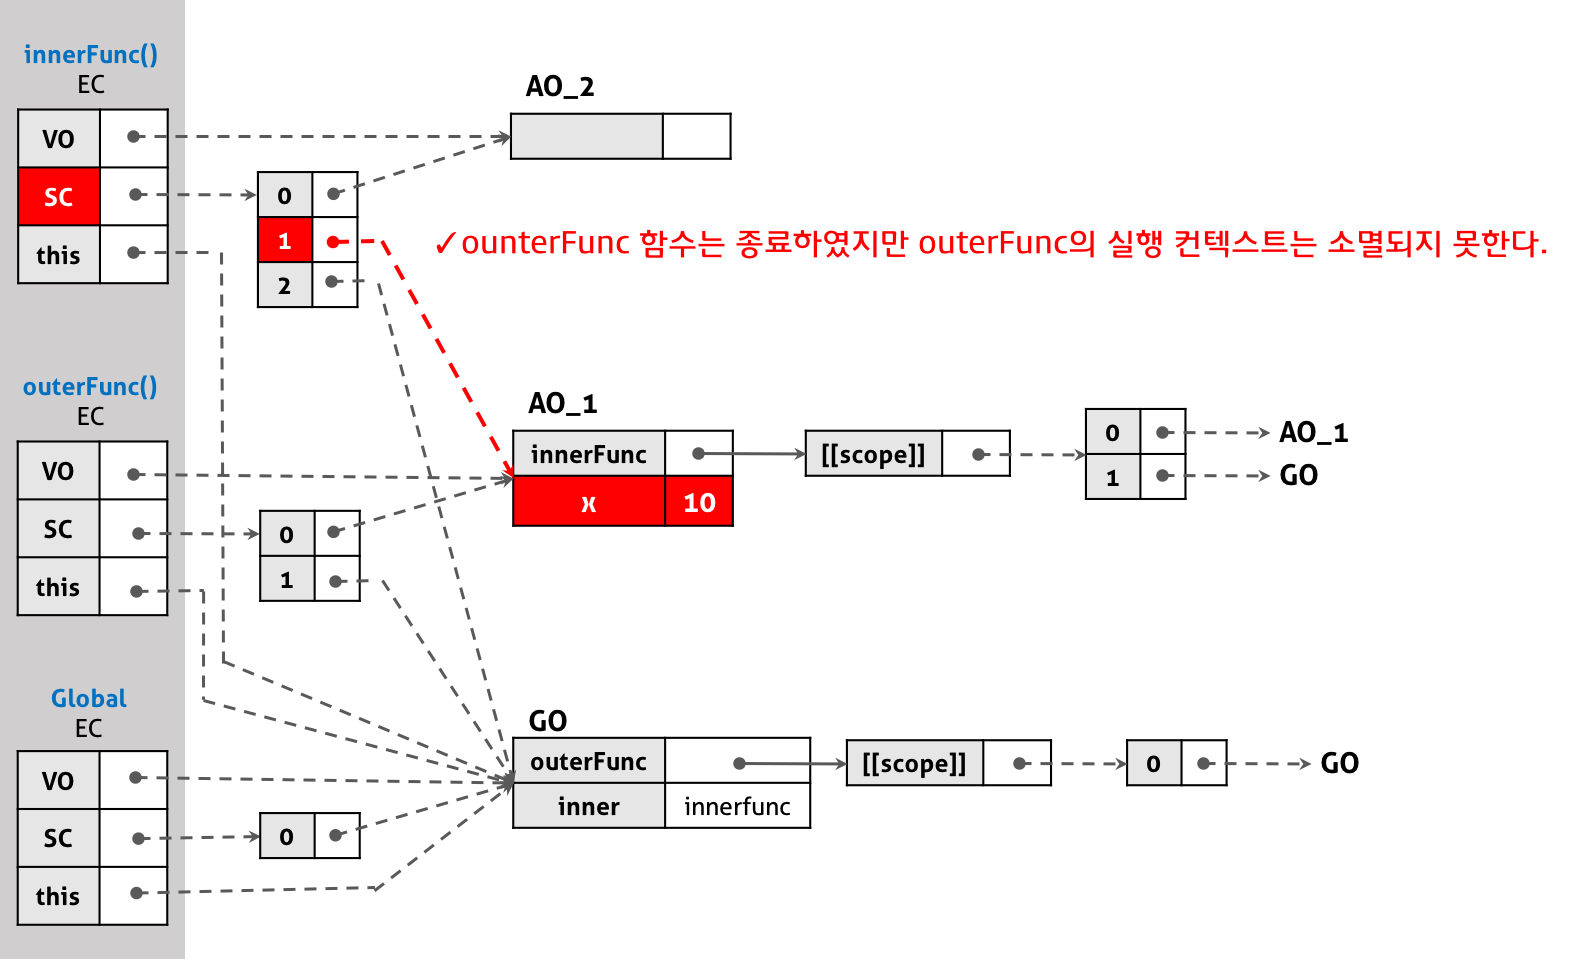
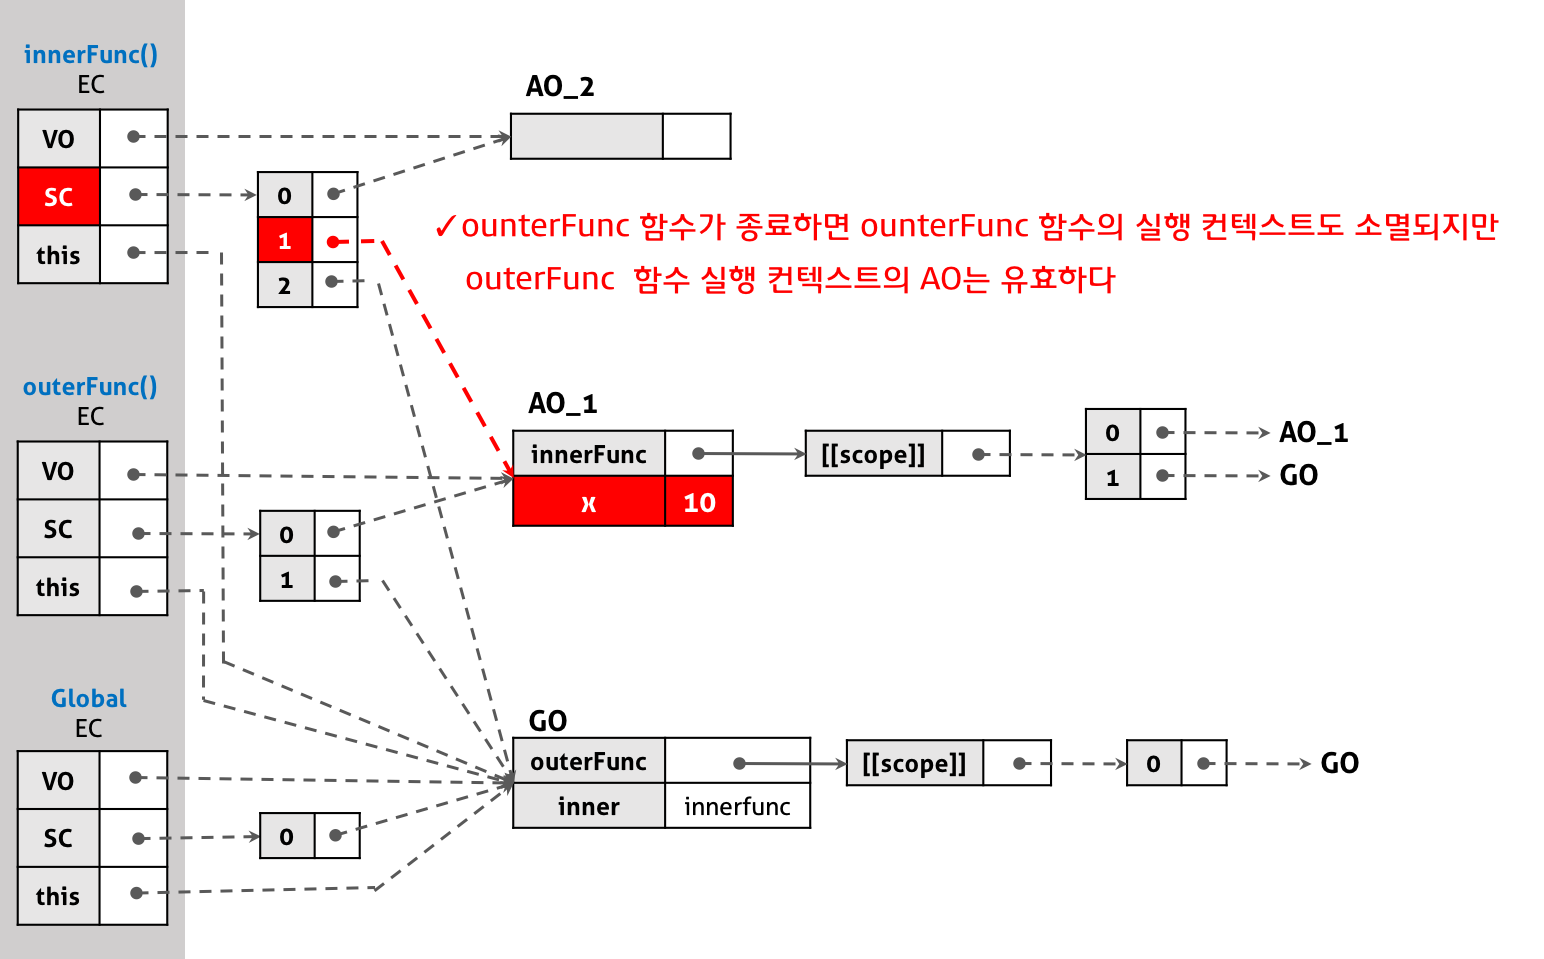
updated

diff --git a/_posts/2016-01-25-Javascript-Closure.md b/_posts/2016-01-25-Javascript-Closure.md
@@ -4,7 +4,9 @@ title: Javascript Closure
 categories: javascript
 ---
 
-클로저(closure)는 자바스크립트에서 중요한 개념 중 하나로 자바스크립트에 관심을 가지고 있다면 한번쯤은 들어보았을 내용이다. [function](http://ungmo2.github.io/javascript/Javascript-Function/), [scope](http://ungmo2.github.io/javascript/Javascript-Scope/), [execution context](http://ungmo2.github.io/javascript/Javascript-Execution-Context/)에 대한 사전 지식이 있으면 이해하기 어렵지 않은 개념이다.
+# 클로저(closure)의 개념
+
+클로저(closure)는 자바스크립트에서 중요한 개념 중 하나로 자바스크립트에 관심을 가지고 있다면 한번쯤은 들어보았을 내용이다. [execution context](http://ungmo2.github.io/javascript/Javascript-Execution-Context/)에 대한 사전 지식이 있으면 이해하기 어렵지 않은 개념이다.
 
 클로저는 내부함수를 위한 외부함수의 지역변수가 외부함수에 의해 내부함수가 반환된 이후에도 life-cycle이 유지되는 것을 의미한다.
 
@@ -20,10 +22,9 @@ function outerFunc(){
 outerFunc();
 ```
 
-함수 outerFunc 내에 내부함수(inner function) innerFunc가 선언되고 실행되었다.
-이때 내부함수 innerFunc는 자신을 포함하고 있는 외부함수 outerFunc의 변수 x에 접근할 수 있다.
+함수 outerFunc 내에 내부함수(inner function) innerFunc가 선언되고 실행되었다. 이때 내부함수 innerFunc는 자신을 포함하고 있는 외부함수 outerFunc의 변수 x에 접근할 수 있다.
 
-이것은 중첩된 함수의 scope의 레퍼런스를 차례대로 저장하고 있는 `scope-chain`을 자바스크립트 엔진이 검색하였기에 가능한 것이다.
+이것은 중첩된 함수의 scope 레퍼런스를 차례대로 저장하고 있는 `scope-chain`을 자바스크립트 엔진이 검색하였기에 가능한 것이다.
 
 이번에는 내부함수 innerFunc를 outerFunc내에서 실행하지 말고 반환하는 코드로 변경해 보자.
 
@@ -34,7 +35,7 @@ function outerFunc(){
   return innerFunc;
 }
 
-var inner = outerFunc();
+var inner = outerFunc(); // 클로저의 형성
 inner();
 ```
 
@@ -42,9 +43,11 @@ inner();
 
 위의 예제는 자신을 포함하고 있는 외부함수보다 내부함수가 더 오래 유지되는 경우인데 이때 내부함수가 외부함수의 지역변수에 접근 할 수 있고, 외부함수는 외부함수의 지역변수를 사용하는 내부함수가 소멸될 때까지 소멸되지 못하고 상태가 유지되며 내부함수에 의해서 소멸하게 되는 특성을 클로저(Closure)라고 부른다.
 
-실행 컨텍스트의 관점에 설명하면, 내부함수가 유효한 상태에서 외부함수의 실행 컨텍스트가 소멸되지 않고 유효하며 내부함수는 외부함수의 실행 컨텍스트 내의 `Activation object`(변수, 함수정의 등의 정보를 가지고 있다)를 `Scope-chain`을 통해 참조할 수 있는 것을 의미한다. 실행 컨텍스트의 세부 내용은 [이곳](http://ungmo2.github.io/javascript/Javascript-Execution-Context/)을 참조하기 바란다.
+[실행 컨텍스트](http://ungmo2.github.io/javascript/Javascript-Execution-Context/)의 관점에 설명하면, 내부함수가 유효한 상태에서 외부함수가 종료하여 외부함수의 실행 컨텍스트가 소멸하더라도, 외부함수 실행 컨텍스트 내의 `Activation object`(변수, 함수정의 등의 정보를 가지고 있다)는 유효하여 내부함수가 `Scope-chain`을 통해 참조할 수 있는 것을 의미한다.
 
 ![closure](/img/closure.png)
+
+# 클로저의 활용
 
 클로저의 필요성을 이해하기 위해서, 버튼이 클릭될 때마다 클릭한 횟수가 누적되어 화면에 표시되는 코드를 만들어보자.
 
